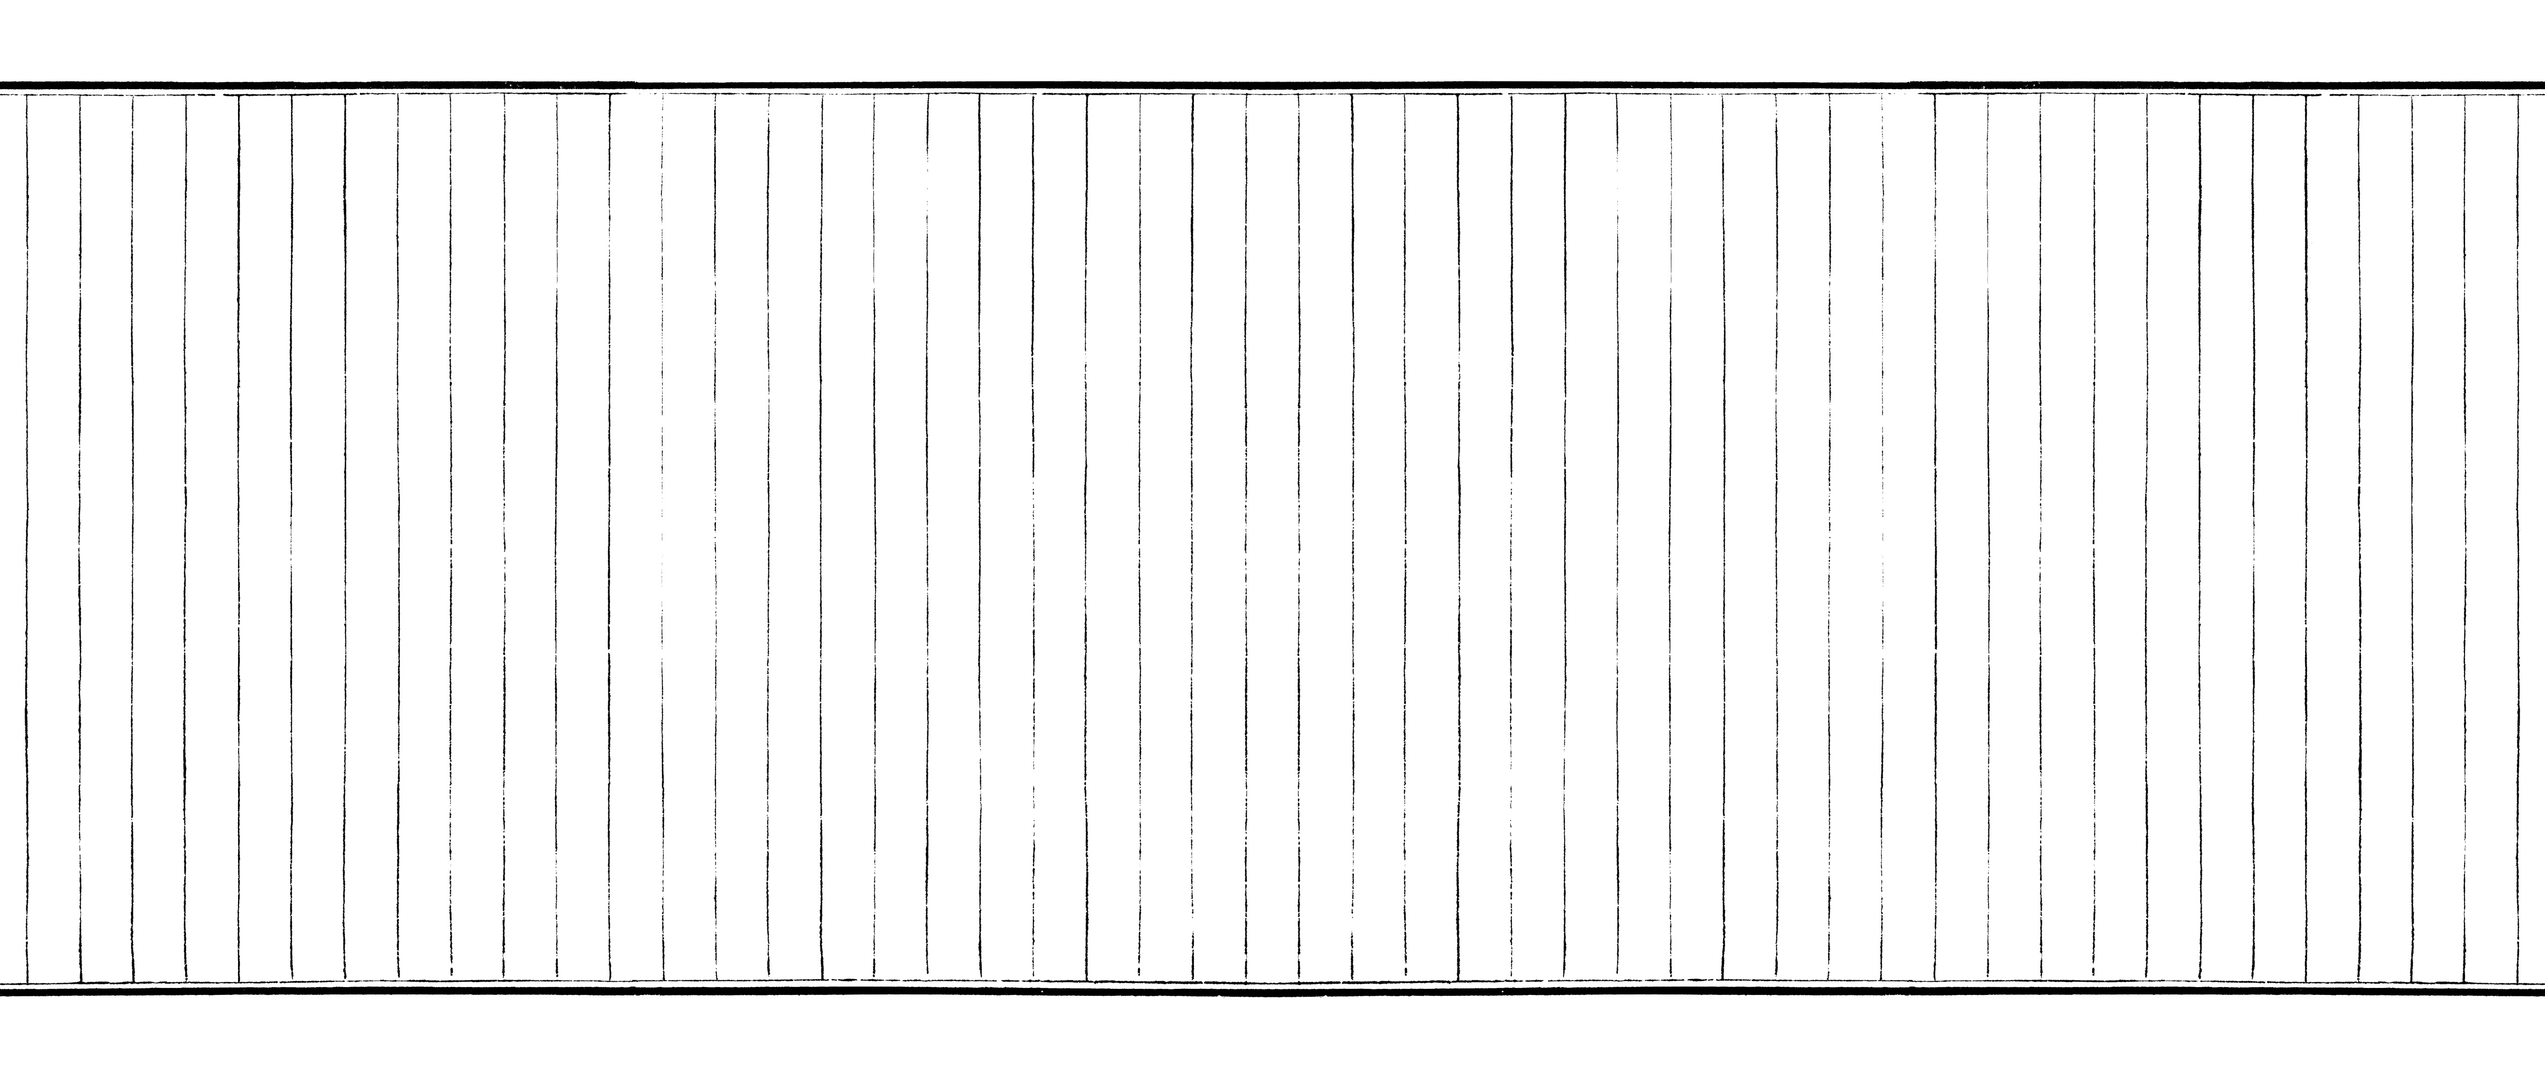
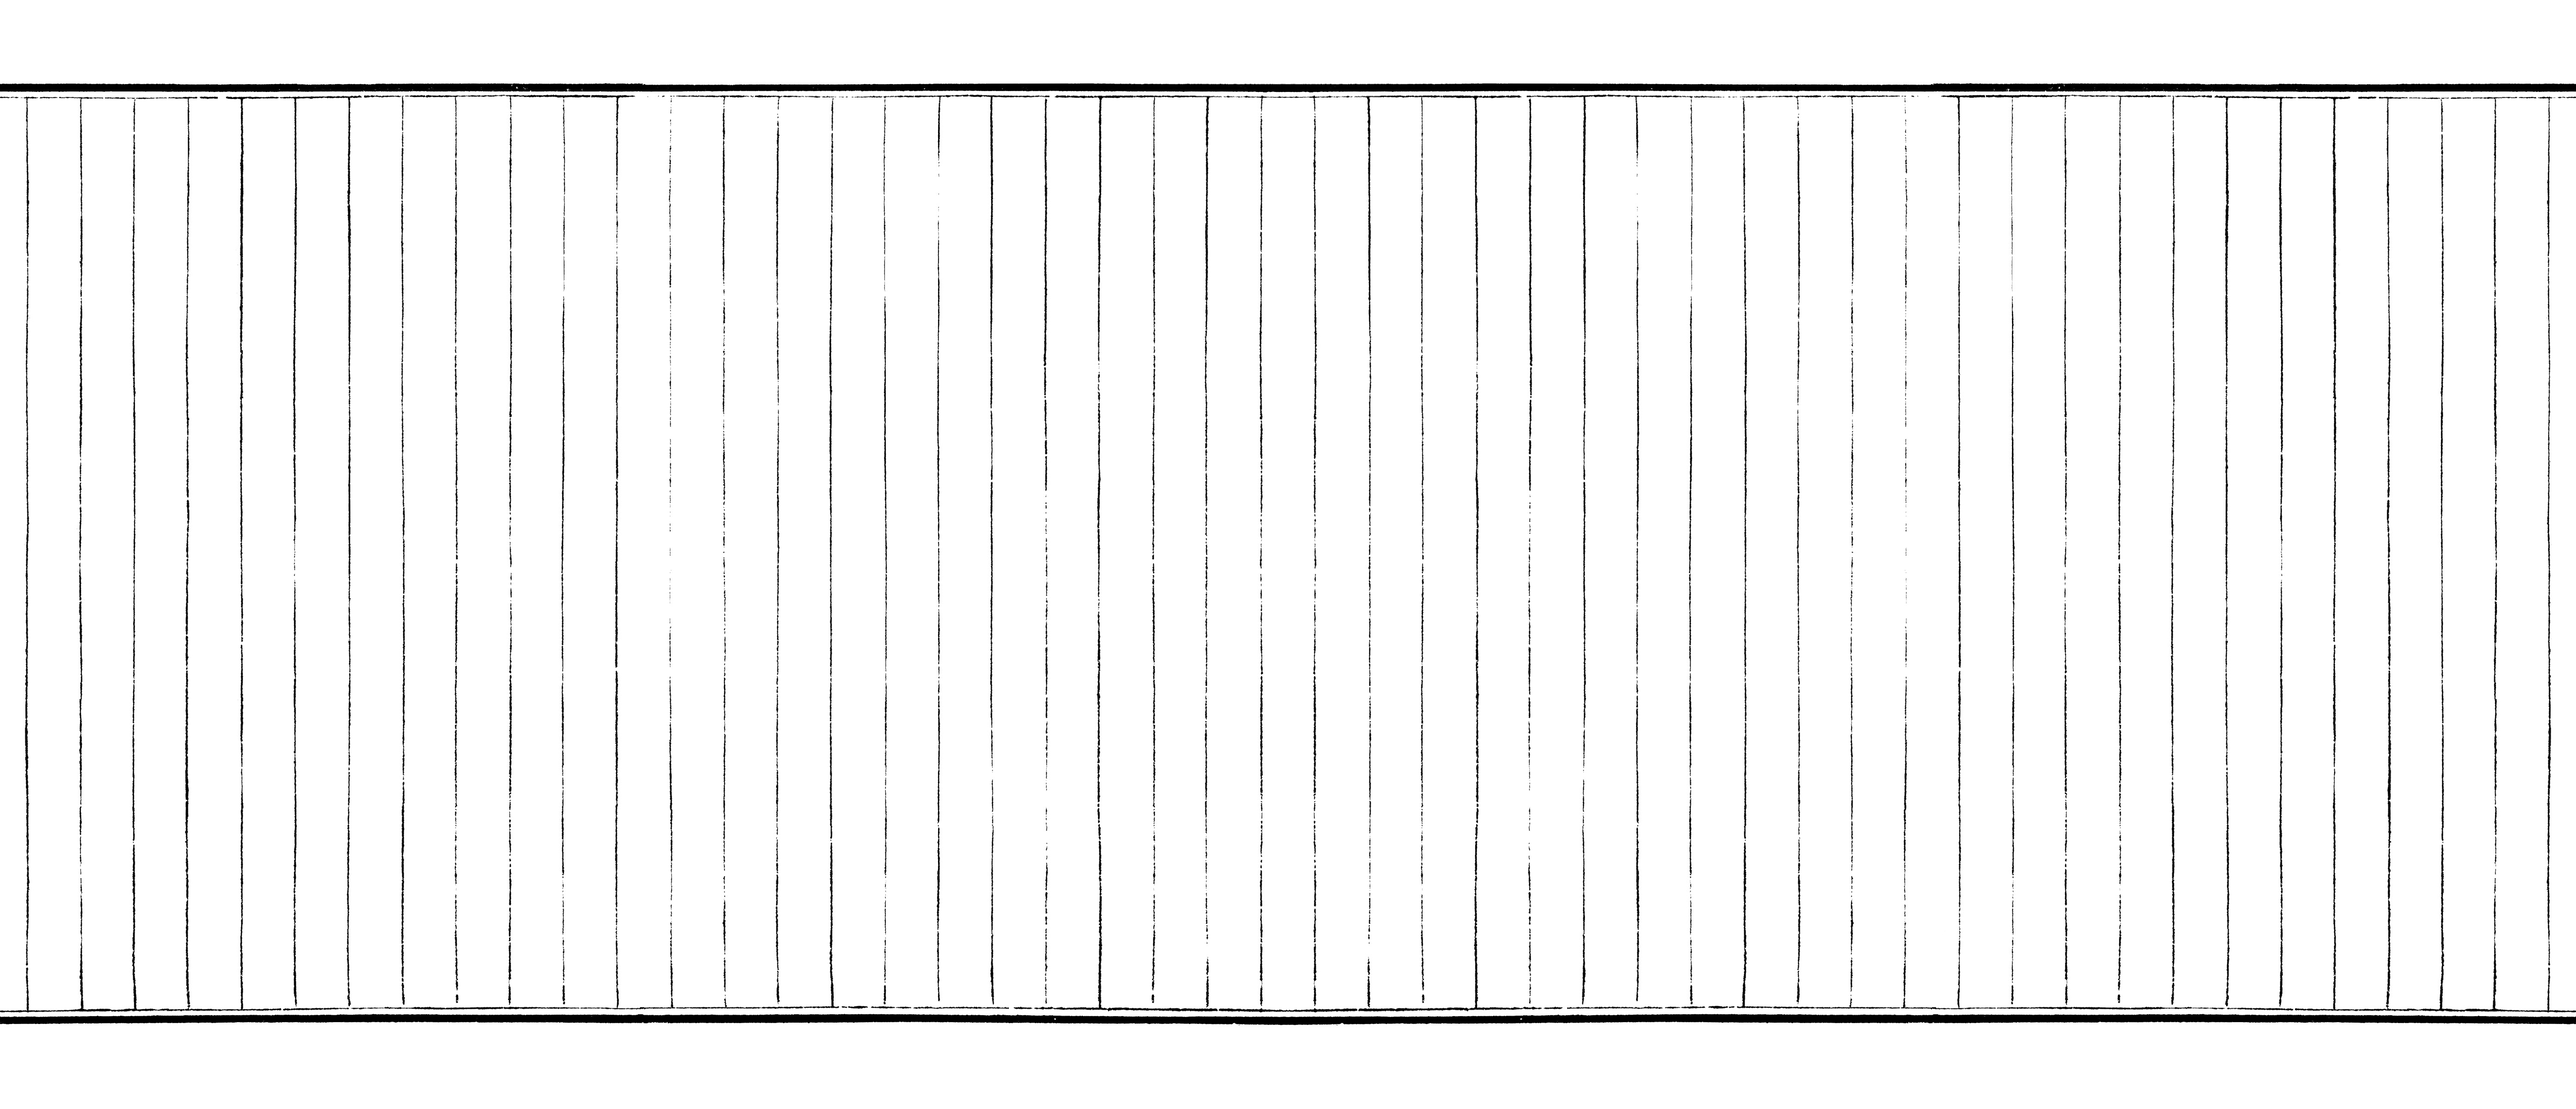
save

diff --git a/src/component/Content.tsx b/src/component/Content.tsx
@@ -4,35 +4,140 @@ import { createStyles, Theme, WithStyles, withStyles } from "@material-ui/core";
 
 import { INITIAL_CONTENT } from "../constant/Constants";
 import BackgroundBody from "../image/background_body.jpg";
+import BackgroundLeft from "../image/background_left.jpg";
+import BackgroundRight from "../image/background_right.jpg";
+import { getFormattedSubtitle } from "../manager/FormatManager";
+import { Poem } from "../type/Types";
+
+const WIDTH = "2.375rem";
+const HALF_WIDTH = "1.1875rem";
+const BACKGROUND_SIZE = "auto 49.103125rem";
 
 const styles = (_theme: Theme) =>
     createStyles({
         container: {
-            height: "42rem",
+            height: "44rem",
             overflowX: "scroll",
+            overflowY: "hidden",
             backgroundColor: "white",
             writingMode: "vertical-rl",
         },
-        content: {
+        bookContent: {
+            height: "44rem",
+            backgroundImage: `url(${BackgroundBody})`,
+            backgroundSize: BACKGROUND_SIZE,
+            backgroundPosition: "right",
+        },
+        bookRightSide: {
+            height: "44rem",
+            width: "4rem",
+            backgroundImage: `url(${BackgroundRight})`,
+            backgroundSize: BACKGROUND_SIZE,
+            backgroundPosition: "left",
+        },
+        bookLeftSide: {
+            height: "44rem",
+            width: "4rem",
+            backgroundImage: `url(${BackgroundLeft})`,
+            backgroundSize: BACKGROUND_SIZE,
+            backgroundPosition: "right",
+        },
+        poemContent: {
             fontSize: "2rem",
-            height: "42rem",
-            // margin: "1rem 0",
+            height: "40rem",
+            margin: "2rem 0",
             width: "fit-content",
-            lineHeight: "2rem",
+            lineHeight: WIDTH,
             textAlign: "start",
             textOrientation: "upright",
-            whiteSpace: "pre-wrap",
             writingMode: "vertical-rl",
-            backgroundImage: `url(${BackgroundBody})`,
-            backgroundSize: "auto 48rem",
-            backgroundPosition: "right",
             color: "black",
+            position: "relative",
+            right: "-1.1rem",
+            top: "-0.1rem",
+            "& .header": {
+                fontSize: "1rem",
+                lineHeight: HALF_WIDTH,
+            },
+            "& .title": {
+                fontSize: "2rem",
+                lineHeight: WIDTH,
+                float: "left",
+                marginTop: "4rem",
+                marginBottom: "1rem",
+            },
+            "& .subtitle": {
+                verticalAlign: "top",
+                display: "block",
+            },
+            "& .body": {
+                clear: "both",
+            },
+            "& .period": {
+                marginTop: 0,
+                marginBottom: "-0.75rem",
+                fontSize: "0.75rem",
+                lineHeight: HALF_WIDTH,
+                position: "relative",
+                top: "-0.2rem",
+                left: "0.75rem",
+                display: "inline-block",
+            },
         },
     });
 
 interface Props extends WithStyles<typeof styles> {
-    contentBody: string;
+    poems: Poem[];
     fetchContent: () => void;
+}
+
+function PoemsContent({ poems }: { poems: Poem[] }) {
+    if (poems.length === 0) {
+        return <p> {INITIAL_CONTENT} </p>;
+    }
+    return (
+        <>
+            {poems.map((poem) => (
+                <PoemContent poem={poem} />
+            ))}
+        </>
+    );
+}
+
+function PoemContent({ poem }: { poem: Poem }) {
+    return (
+        <div>
+            <PoemHeader title={poem.title} subtitle={poem.subtitle} />
+            <PoemBody body={poem.body} />
+        </div>
+    );
+}
+
+function PoemHeader({ title, subtitle }: { title: string; subtitle: string }) {
+    const subtitleParts = getFormattedSubtitle(title, subtitle);
+    return (
+        <div className="header">
+            <span className="title">{title}</span>
+            {subtitleParts.map((subtitle) => (
+                <span className="subtitle">{subtitle}</span>
+            ))}
+        </div>
+    );
+}
+
+function PoemBody({ body }: { body: string }) {
+    const lines = body.split("︒").filter((line) => line !== "");
+    const compoments = [];
+
+    for (const line of lines) {
+        compoments.push(line, <Period />);
+    }
+
+    return <div className="body"> {compoments} </div>;
+}
+
+function Period() {
+    return <span className="period">︒</span>;
 }
 
 class Content extends React.Component<Props> {
@@ -43,10 +148,15 @@ class Content extends React.Component<Props> {
     render() {
         const { classes } = this.props;
 
-        const contentBody = this.props.contentBody || INITIAL_CONTENT;
         return (
             <div className={classes.container}>
-                <div className={classes.content}>{contentBody}</div>
+                <div className={classes.bookRightSide}></div>
+                <div className={classes.bookContent}>
+                    <div className={classes.poemContent}>
+                        <PoemsContent poems={this.props.poems} />
+                    </div>
+                </div>
+                <div className={classes.bookLeftSide}></div>
             </div>
         );
     }

diff --git a/src/selector/ContentStateSelectors.ts b/src/selector/ContentStateSelectors.ts
@@ -1,44 +1,27 @@
 import { createSelector } from "reselect";
 
-import data from "../data/poem_20200416.js";
-import { getFormattedCameraReadyContent } from "../manager/FormatManager";
+import { getPoemFromRows } from "../adaptor/ContentAdaptor";
 import { State } from "../reducer/Reducer";
 
-const lines = data.split(/(?<!\r)\n/);
-let outputLines = [];
-for (const line of lines) {
-    if (line.startsWith("(")) {
-        const fields = line.split(",");
+// import data from "../data/poem_20200416.js";
+// import { getFormattedCameraReadyContent } from "../manager/FormatManager";
 
-        // console.log(fields[1], fields[6]);
-
-        const content = fields[5].slice(2, -1);
-        const formattedContent = getFormattedCameraReadyContent(content);
-        fields[5] = " '" + formattedContent + "'";
-        outputLines.push(fields.join(","));
-    } else {
-        outputLines.push(line);
-    }
-}
-console.log(outputLines.join("\n"));
+// const lines = data.split(/(?<!\r)\n/);
+// let outputLines = [];
+// for (const line of lines) {
+//     if (line.startsWith("(")) {
+//         const fields = line.split(",");
+//         const content = fields[5].slice(2, -1);
+//         const formattedContent = getFormattedCameraReadyContent(content);
+//         fields[5] = " '" + formattedContent + "'";
+//         outputLines.push(fields.join(","));
+//     } else {
+//         outputLines.push(line);
+//     }
+// }
 
 export const getContentState = (state: State) => state.contentState;
 
-export const getContentBody = createSelector(
-    [getContentState],
-    (contentState) => {
-        console.log("check", contentState.content.rows);
-
-        // const rows = contentState.content.rows || [];
-        // for (const row of rows) {
-        //     const content = row.camera_ready_content;
-        //     // console.log(content);
-        //     // getFormattedCameraReadyContent(content);
-        //     // console.log(getFormattedCameraReadyContent(content));
-        // }
-        const content = contentState.content.rows
-            ?.map((row) => "  " + row.title + "\n" + row.camera_ready_content)
-            .join("\n");
-        return content || "";
-    }
+export const getPoems = createSelector([getContentState], (contentState) =>
+    getPoemFromRows(contentState.content.rows || [])
 );

diff --git a/src/manager/FormatManager.ts b/src/manager/FormatManager.ts
@@ -13,12 +13,34 @@ const CHARACTERS_TO_REMOVE = [
 
 const DELIMITER = "︒";
 
+const SUBTITLE_CHARACTERS_PER_LINE = 40;
+const SUBTITLE_NO_WRAP_LIMIT = 4;
+
 export function getFormattedCameraReadyContent(content: string) {
-    var re = new RegExp(`[${CHARACTERS_TO_REMOVE}]`, 'g');
+    var re = new RegExp(`[${CHARACTERS_TO_REMOVE}]`, "g");
     const lines = content
         .split(/[\\r\\n|\s+]/)
         .map((line) => line.replace(re, ""))
         .filter((line) => line !== "");
 
     return lines.join(DELIMITER) + DELIMITER;
+}
+
+export function getFormattedSubtitle(title: string, subtitle: string) {
+    let len = subtitle.length;
+
+    if (len <= SUBTITLE_NO_WRAP_LIMIT) {
+        return [subtitle];
+    }
+
+    let remaining = (SUBTITLE_CHARACTERS_PER_LINE - title.length * 2 - 5) * 2;
+
+    while (len > remaining) {
+        len -= remaining;
+        remaining = SUBTITLE_CHARACTERS_PER_LINE * 2;
+    }
+
+    const tailLength = len >>> 1;
+
+    return [subtitle.slice(0, -tailLength), subtitle.slice(-tailLength)];
 }

diff --git a/src/container/ContentContainer.ts b/src/container/ContentContainer.ts
@@ -7,11 +7,11 @@ import {
 import Content from "../component/Content";
 import { fetchContentPromise } from "../manager/ConnectionManager";
 import { State } from "../reducer/Reducer";
-import { getContentBody } from "../selector/ContentStateSelectors";
+import { getPoems } from "../selector/ContentStateSelectors";
 
 function mapStateToProps(state: State) {
     return {
-        contentBody: getContentBody(state),
+        poems: getPoems(state),
     };
 }
 
@@ -21,7 +21,6 @@ function mapDispatchToProps(dispatch: Dispatch) {
             dispatch(requestContent());
             try {
                 const content = await fetchContentPromise();
-                console.log('content', content);
                 dispatch(receiveContent(content));
             } catch (error) {
                 dispatch(receiveContentError(error));

diff --git a/src/App.tsx b/src/App.tsx
@@ -16,15 +16,15 @@ const useStyles = makeStyles((theme) => ({
         minHeight: "100vh",
     },
     header: {
-        flexBasis: "calc(75vh - 32rem)",
+        flexBasis: "calc(75vh - 34rem)",
         display: "flex",
     },
     headerContent: {
         width: "100%",
-        backgroundColor: "red",
+        // backgroundColor: "red",
     },
     main: {
-        flexBasis: "42rem",
+        flexBasis: "44rem",
         display: "flex",
         alignItems: "center",
         justifyContent: "center",
@@ -35,7 +35,7 @@ const useStyles = makeStyles((theme) => ({
     },
     footerContent: {
         width: "100%",
-        backgroundColor: "blue",
+        // backgroundColor: "blue",
     },
 }));
 

diff --git a/src/manager/ConnectionManager.ts b/src/manager/ConnectionManager.ts
@@ -11,10 +11,9 @@ export async function fetchContentPromise(): Promise<MySqlQueryResult> {
             source: DEFAULT_MYSQL_QUERY_SOURCE_CONFIG,
             database: "poem",
             table: "poem",
-            sql: "select * from poem_by_date limit 20",
+            sql: "select * from poem_by_date limit 0, 1000",
         };
         const result = await fetchQueryResultPromise(queryConfig);
-        console.log(result);
 
         return result;
     } catch (error) {

diff --git a/src/adaptor/ContentAdaptor.ts b/src/adaptor/ContentAdaptor.ts
@@ -1,0 +1,9 @@
+import { Poem } from "../type/Types";
+
+export function getPoemFromRows(rows: any[]): Poem[] {
+    return rows.map((row) => ({
+        title: row.title || "",
+        subtitle: row.subtitle || "",
+        body: row.camera_ready_content || "",
+    }));
+}

diff --git a/src/type/Types.ts b/src/type/Types.ts
@@ -31,3 +31,9 @@ export type ContentStateAction =
 export interface ContentState {
     content: MySqlQueryResult;
 }
+
+export interface Poem {
+    title: string;
+    subtitle: string;
+    body: string;
+}

diff --git a/src/App.css b/src/App.css
@@ -4,7 +4,7 @@
 }
 
 .AppBody {
-    background-color: #282c34;
+    /* background-color: #282c34; */
     min-height: 100vh;
     display: flex;
     flex-direction: column;

diff --git a/src/index.css b/src/index.css
@@ -11,3 +11,7 @@ code {
     font-family: source-code-pro, Menlo, Monaco, Consolas, "Courier New",
         monospace;
 }
+
+p {
+    margin: 0;
+}
